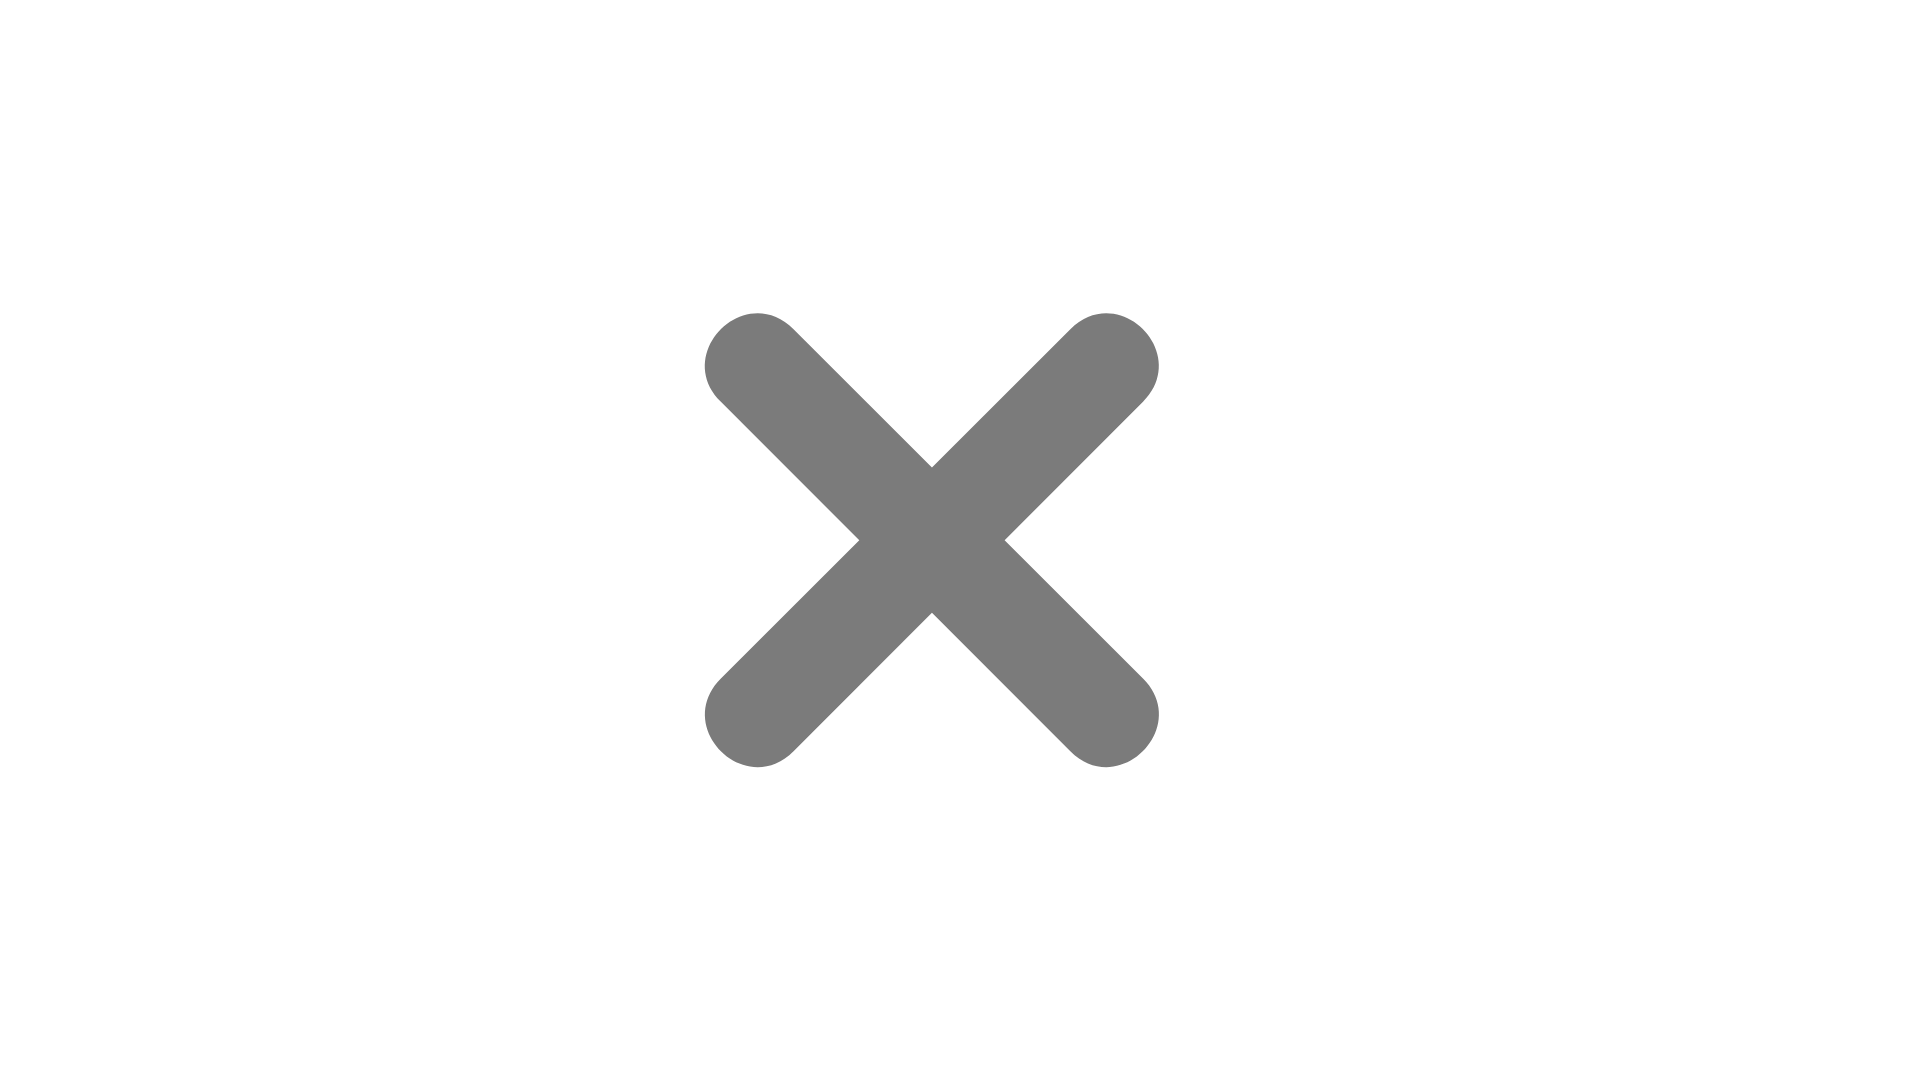
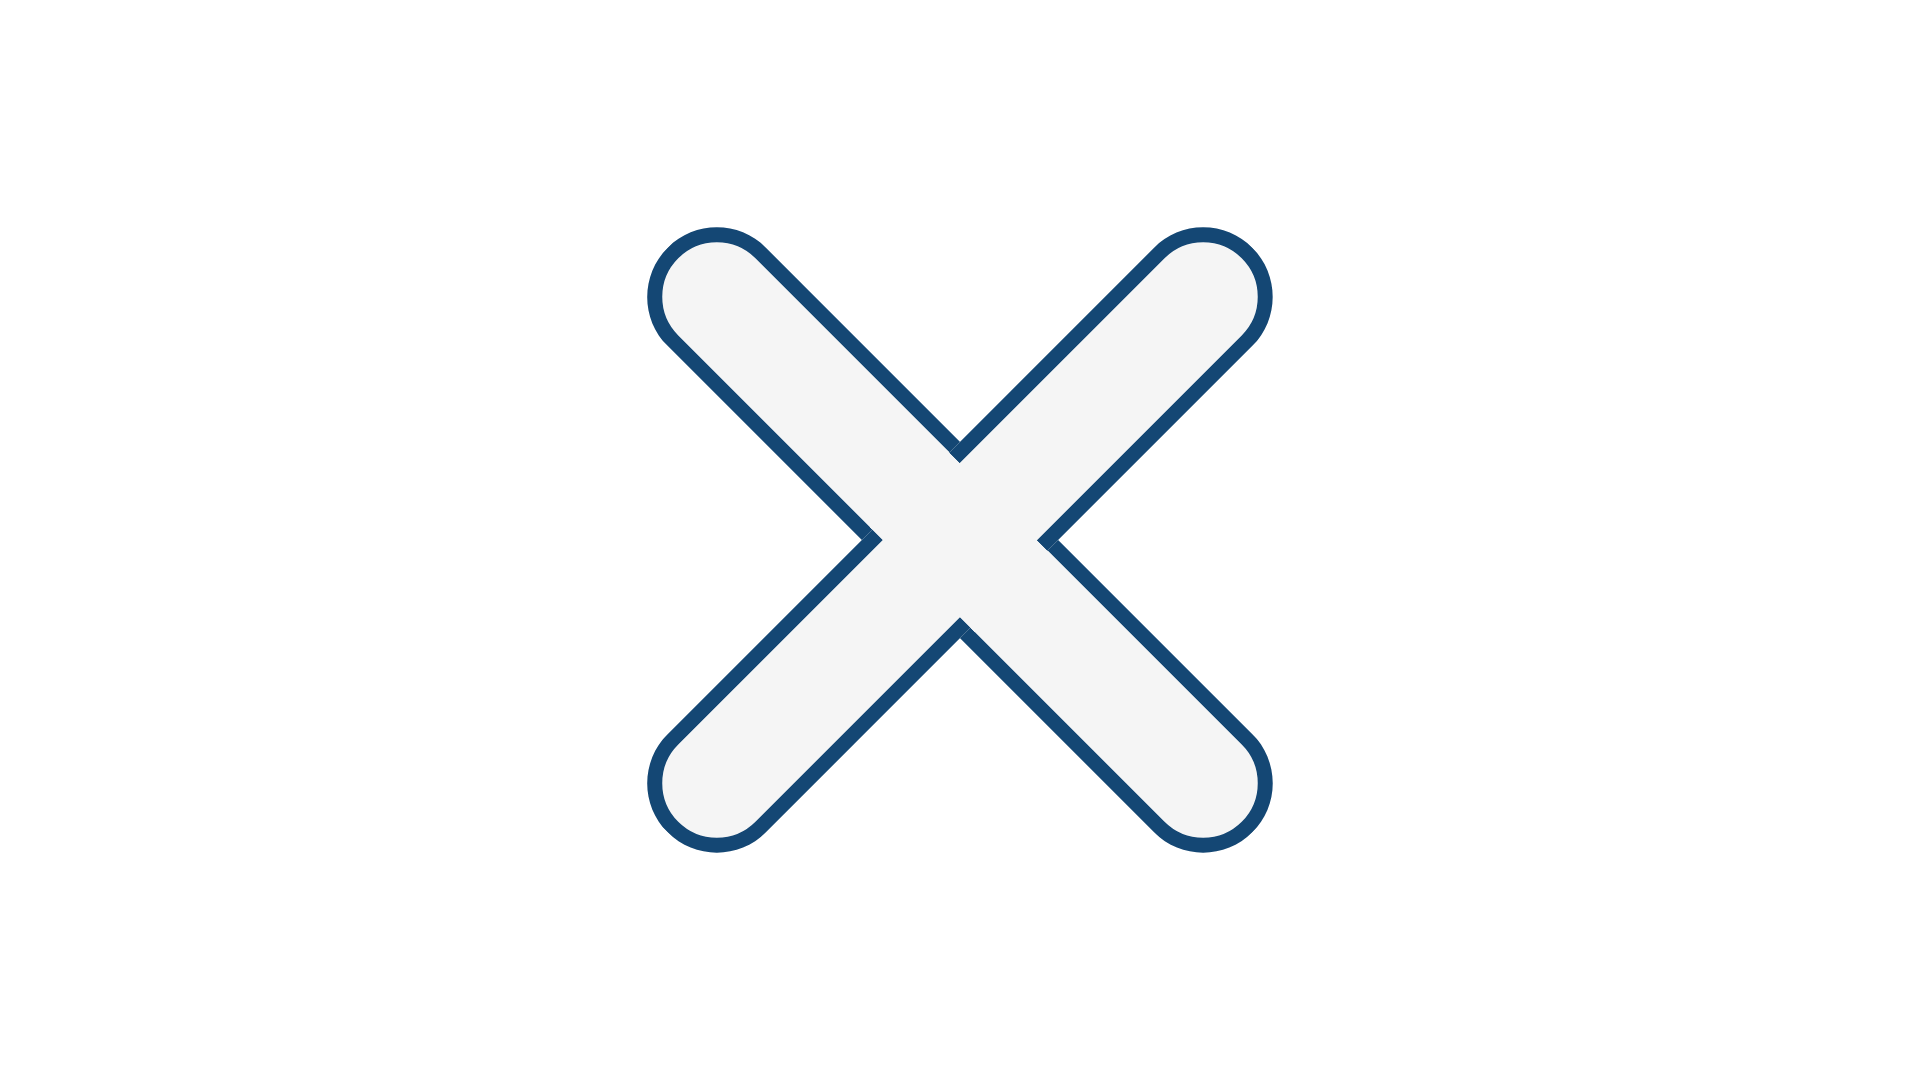
Salvar

Changed region(s): [[0.3125, 0.2139, 0.6875, 0.7944]]

diff --git a/src/components/SobreNos.jsx b/src/components/SobreNos.jsx
@@ -38,7 +38,6 @@ const SobreNos = () => {
       min-h-screen p-4 lg:p-0
     `}>
 
-      {/* --- MENU PADRONIZADO INÍCIO --- */}
       <header className="flex justify-between items-center p-4 lg:hidden relative z-50">
         <button onClick={toggleDarkMode} className="cursor-pointer">
           <img
@@ -61,7 +60,7 @@ const SobreNos = () => {
           }`}
         >
           <button onClick={toggleMenu} className="self-end mb-4">
-            <img src="./imagens/x.png" alt="Fechar menu" className="w-8" />
+            <img src="./imagens/x.png" alt="Fechar menu" className="w-15" />
           </button>
 
           <Link to="/" onClick={toggleMenu} className='mb-4'>
@@ -127,7 +126,7 @@ const SobreNos = () => {
                 href={member.instagram}
                 target="_blank"
                 rel="noopener noreferrer"
-                className="bg-[#4E8BB8] dark:bg-[#6FADD2] py-1 px-5 lg:py-4 lg:px-12 text-white rounded-[30px] font-[MadimiOne] text-lg lg:text-2xl no-underline transition-colors duration-300 hover:bg-white hover:text-[#144774] dark:hover:text-[#336FA5]"
+                className="bg-[#4E8BB8] dark:bg-[#6FADD2] py-1 px-5 lg:py-4 lg:px-12 text-white rounded-[35px] font-[MadimiOne] text-lg lg:text-2xl no-underline transition-colors duration-300 hover:bg-white hover:text-[#144774] dark:hover:text-[#336FA5]"
               >
                 VER PERFIL
               </a>

diff --git a/src/components/Jogo.jsx b/src/components/Jogo.jsx
@@ -49,7 +49,7 @@ const Jogo = () => {
                         }`}
                     >
                         <button onClick={toggleMenu} className="self-end mb-4">
-                            <img src="./imagens/x.png" alt="Fechar menu" className="w-8" />
+                            <img src="./imagens/x.png" alt="Fechar menu" className="w-15" />
                         </button>
                         <Link to="/" onClick={toggleMenu} className="mb-4">
                             <img

diff --git a/src/components/FaleConosco.jsx b/src/components/FaleConosco.jsx
@@ -48,7 +48,7 @@ const FaleConosco = () => {
             }`}
           >
             <button onClick={toggleMenu} className="self-end mb-4">
-              <img src="./imagens/x.png" alt="Fechar menu" className="w-8" />
+              <img src="./imagens/x.png" alt="Fechar menu" className="w-15" />
             </button>
             <Link to="/" onClick={toggleMenu} className="mb-4">
               <img 

diff --git a/src/components/Instrucoes.jsx b/src/components/Instrucoes.jsx
@@ -45,7 +45,7 @@ function Instrucoes() {
             }`}
           >
             <button onClick={toggleMenu} className="self-end mb-4">
-              <img src="./imagens/x.png" alt="Fechar menu" className="w-8" />
+              <img src="./imagens/x.png" alt="Fechar menu" className="w-15" />
             </button>
             
             <Link to="/" onClick={toggleMenu} className='mb-4'>

diff --git a/src/components/Materiais.jsx b/src/components/Materiais.jsx
@@ -60,7 +60,7 @@ const Materiais = () => {
             }`}
           >
             <button onClick={toggleMenu} className="self-end mb-4">
-              <img src="./imagens/x.png" alt="Fechar menu" className="w-12" />
+              <img src="./imagens/x.png" alt="Fechar menu" className="w-15" />
             </button>
             <Link to="/" onClick={toggleMenu} className='mb-4 -mt-4'>
               <img

diff --git a/src/components/Home.jsx b/src/components/Home.jsx
@@ -46,7 +46,7 @@ const Home = () => {
               }`}
             >
               <button onClick={toggleMenu} className="self-end mb-4">
-                <img src="./imagens/x.png" alt="Fechar menu" className="w-8" />
+                <img src="./imagens/x.png" alt="Fechar menu" className="w-15" />
               </button>
         
               <Link to="/" onClick={toggleMenu} className='mb-4'>

diff --git a/src/components/Referencias.jsx b/src/components/Referencias.jsx
@@ -45,7 +45,7 @@ const Referencias = () => {
             }`}
           >
             <button onClick={toggleMenu} className="self-end mb-4">
-              <img src="./imagens/x.png" alt="Fechar menu" className="w-8" />
+              <img src="./imagens/x.png" alt="Fechar menu" className="w-15" />
             </button>
 
             <Link to="/" onClick={toggleMenu} className='mb-4'>
